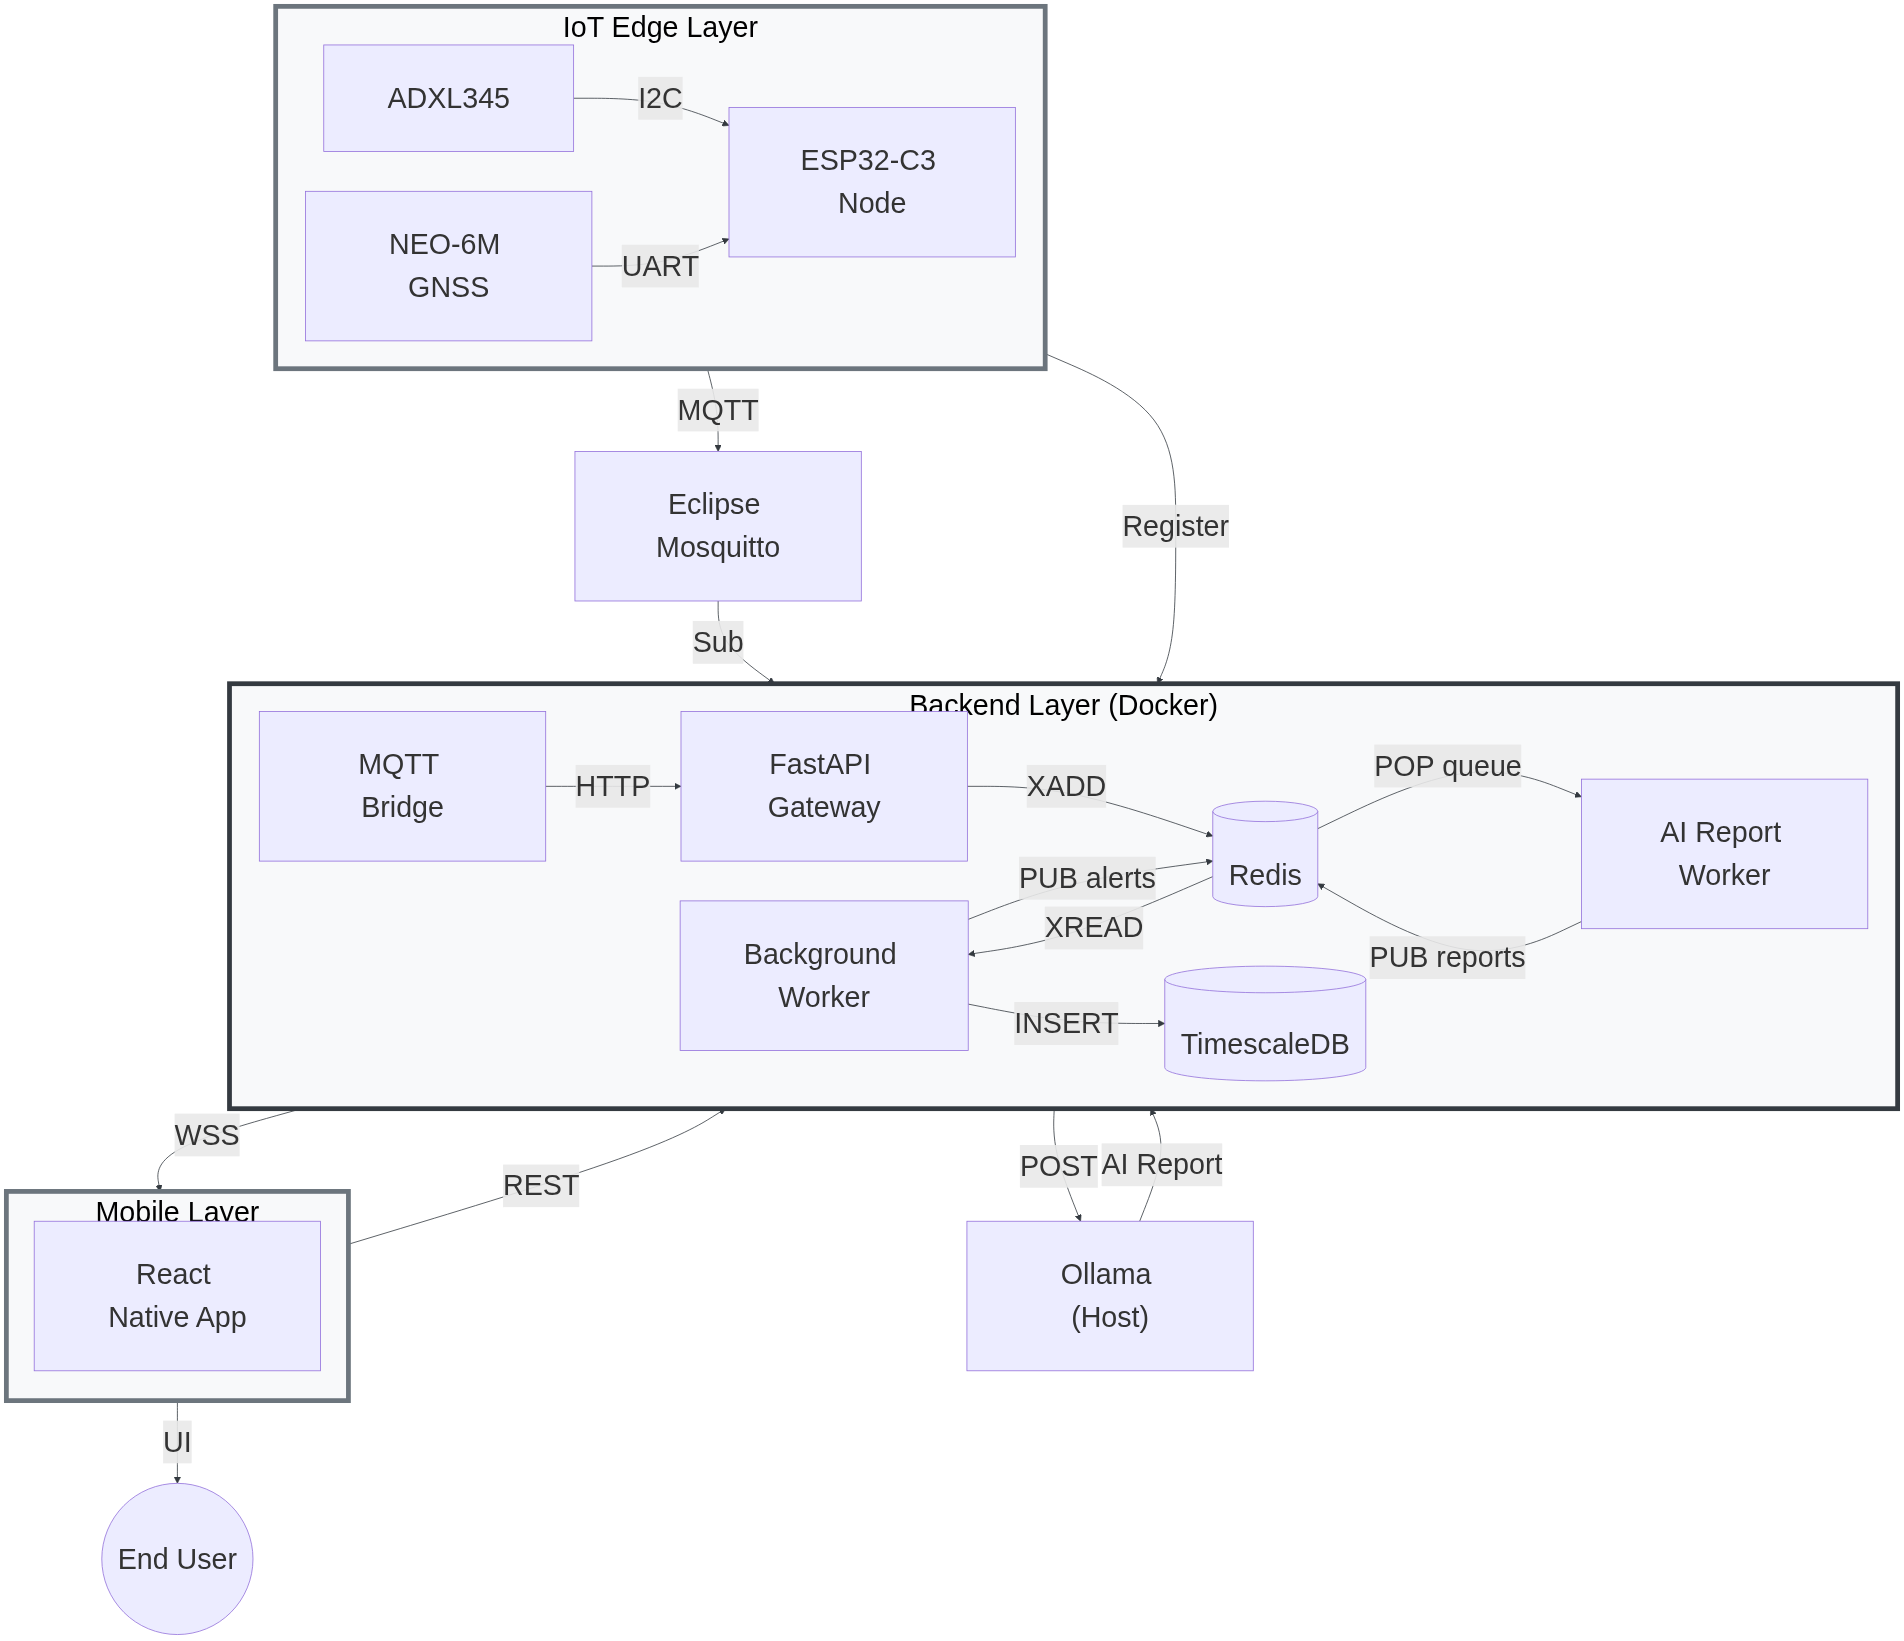
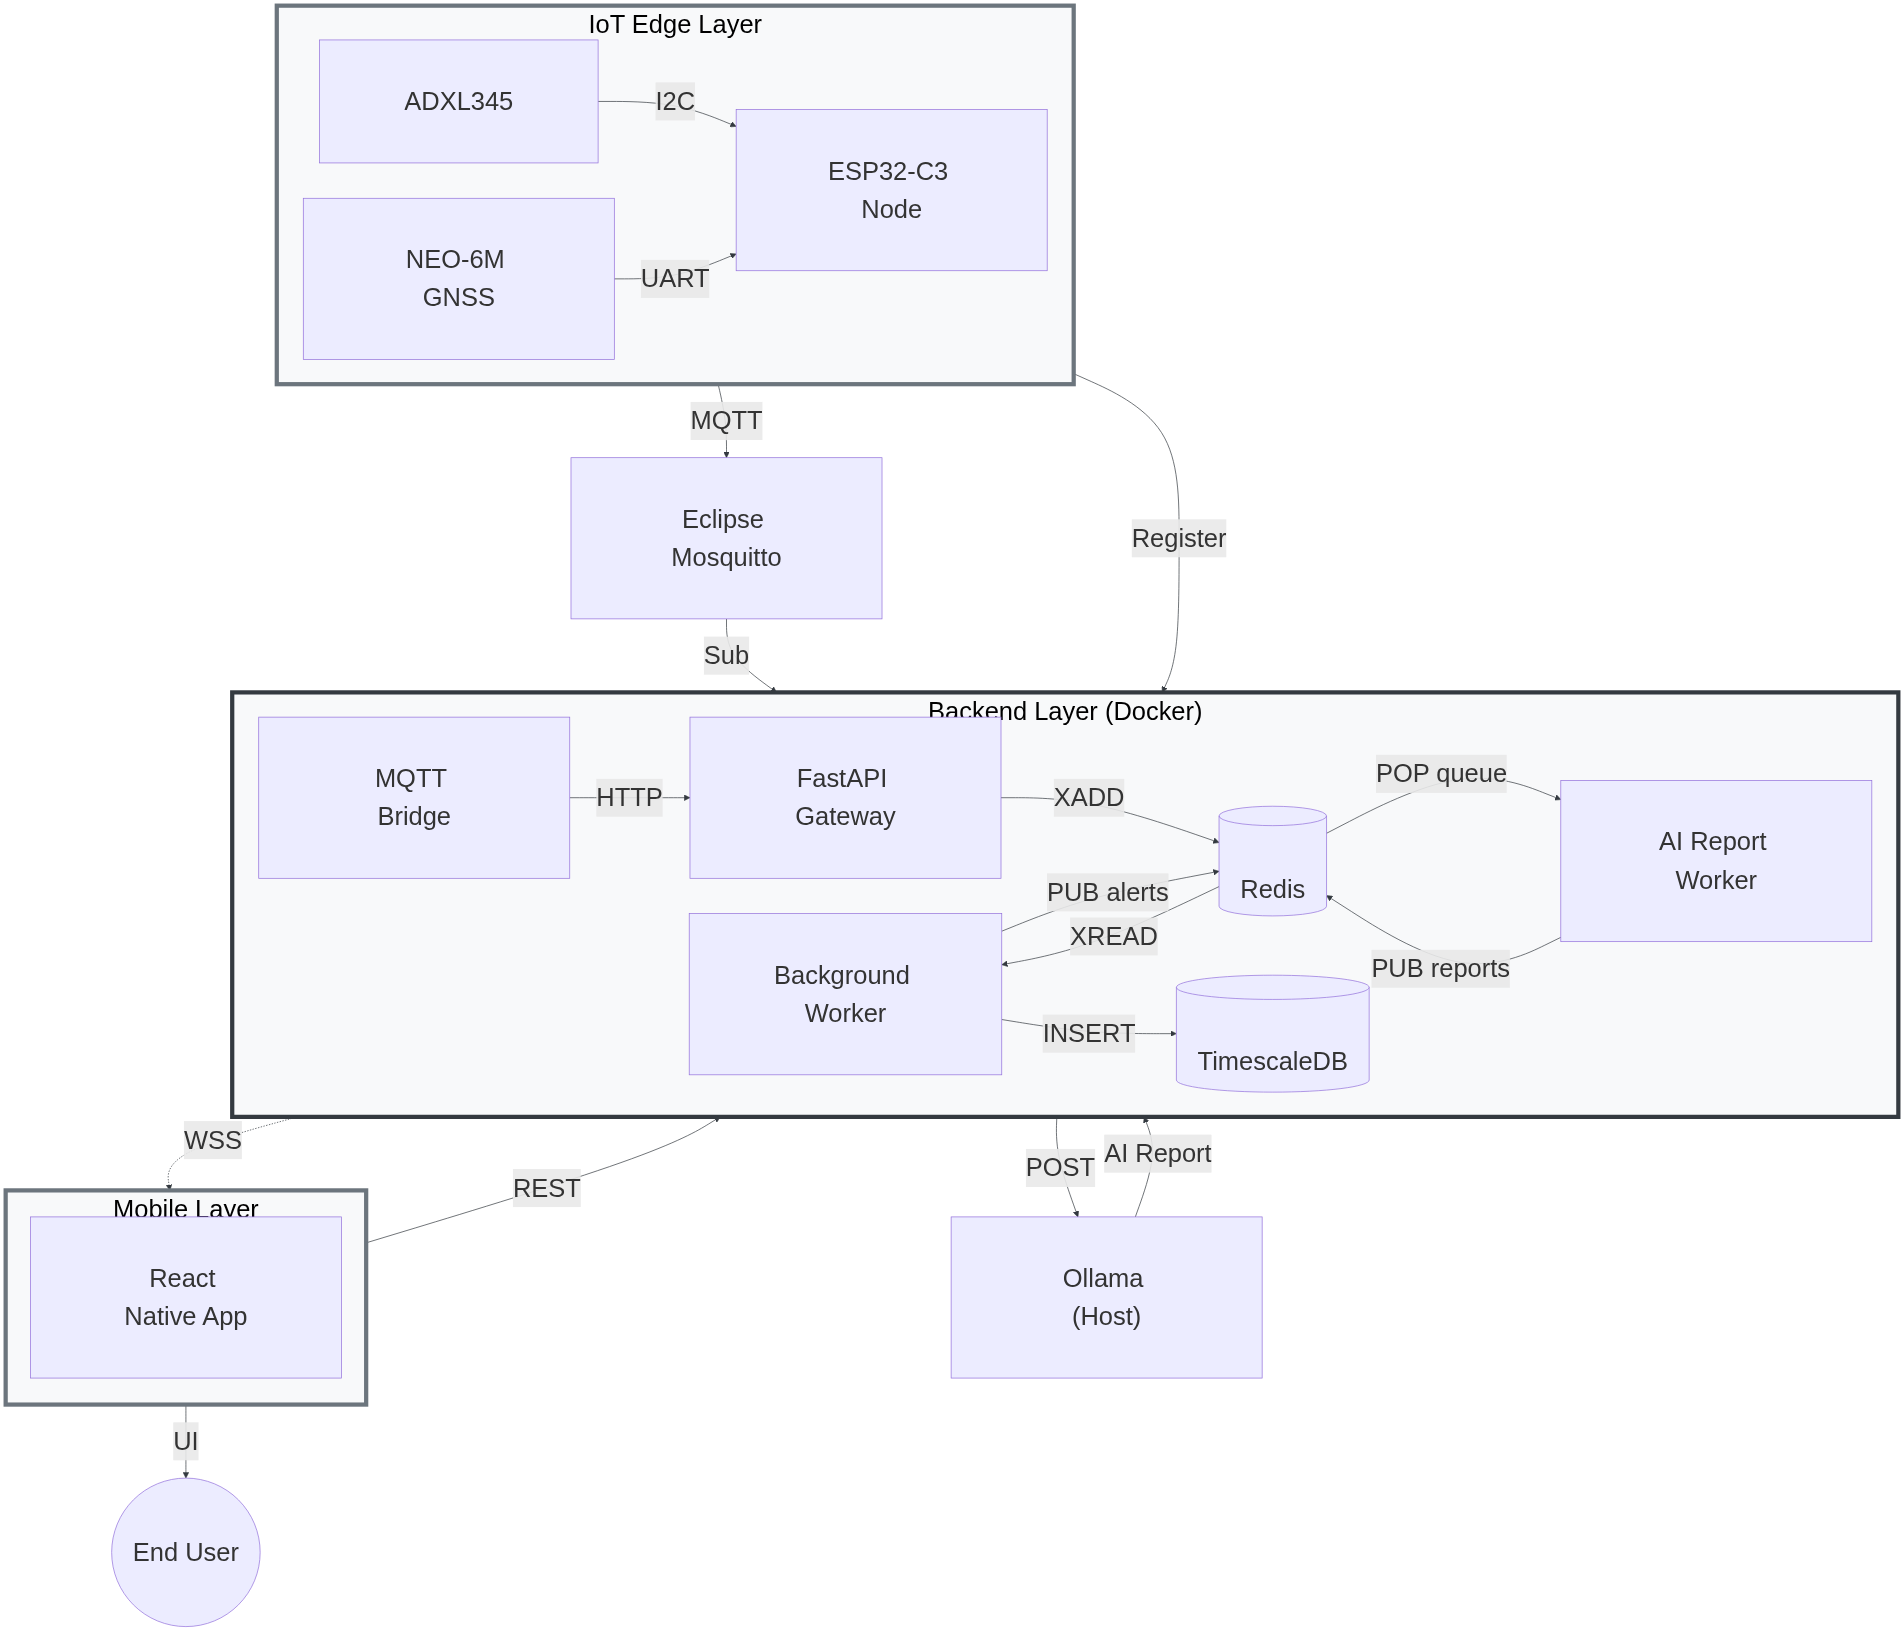
docs(whitepaper): fix dagre rendering of figure 2

diff --git a/docs/diagrams/c4-context.md b/docs/diagrams/c4-context.md
@@ -52,7 +52,7 @@ config:
     fontSize: 36px
     lineColor: '#343a40'
   flowchart:
-    padding: 40
+    padding: 60
   layout: fixed
 ---
 flowchart TB
@@ -89,7 +89,7 @@ flowchart TB
     mosquitto -- Sub --> mqtt_bridge
     ai_worker -- POST --> ollama["Ollama (Host)"]
     ai_worker -- PUB reports --> redis
-    api -- WSS --> app
+    api -. WSS .-> app
     app -- REST --> api
     app -- UI --> user(("End User"))
     ollama -- AI Report --> ai_worker
